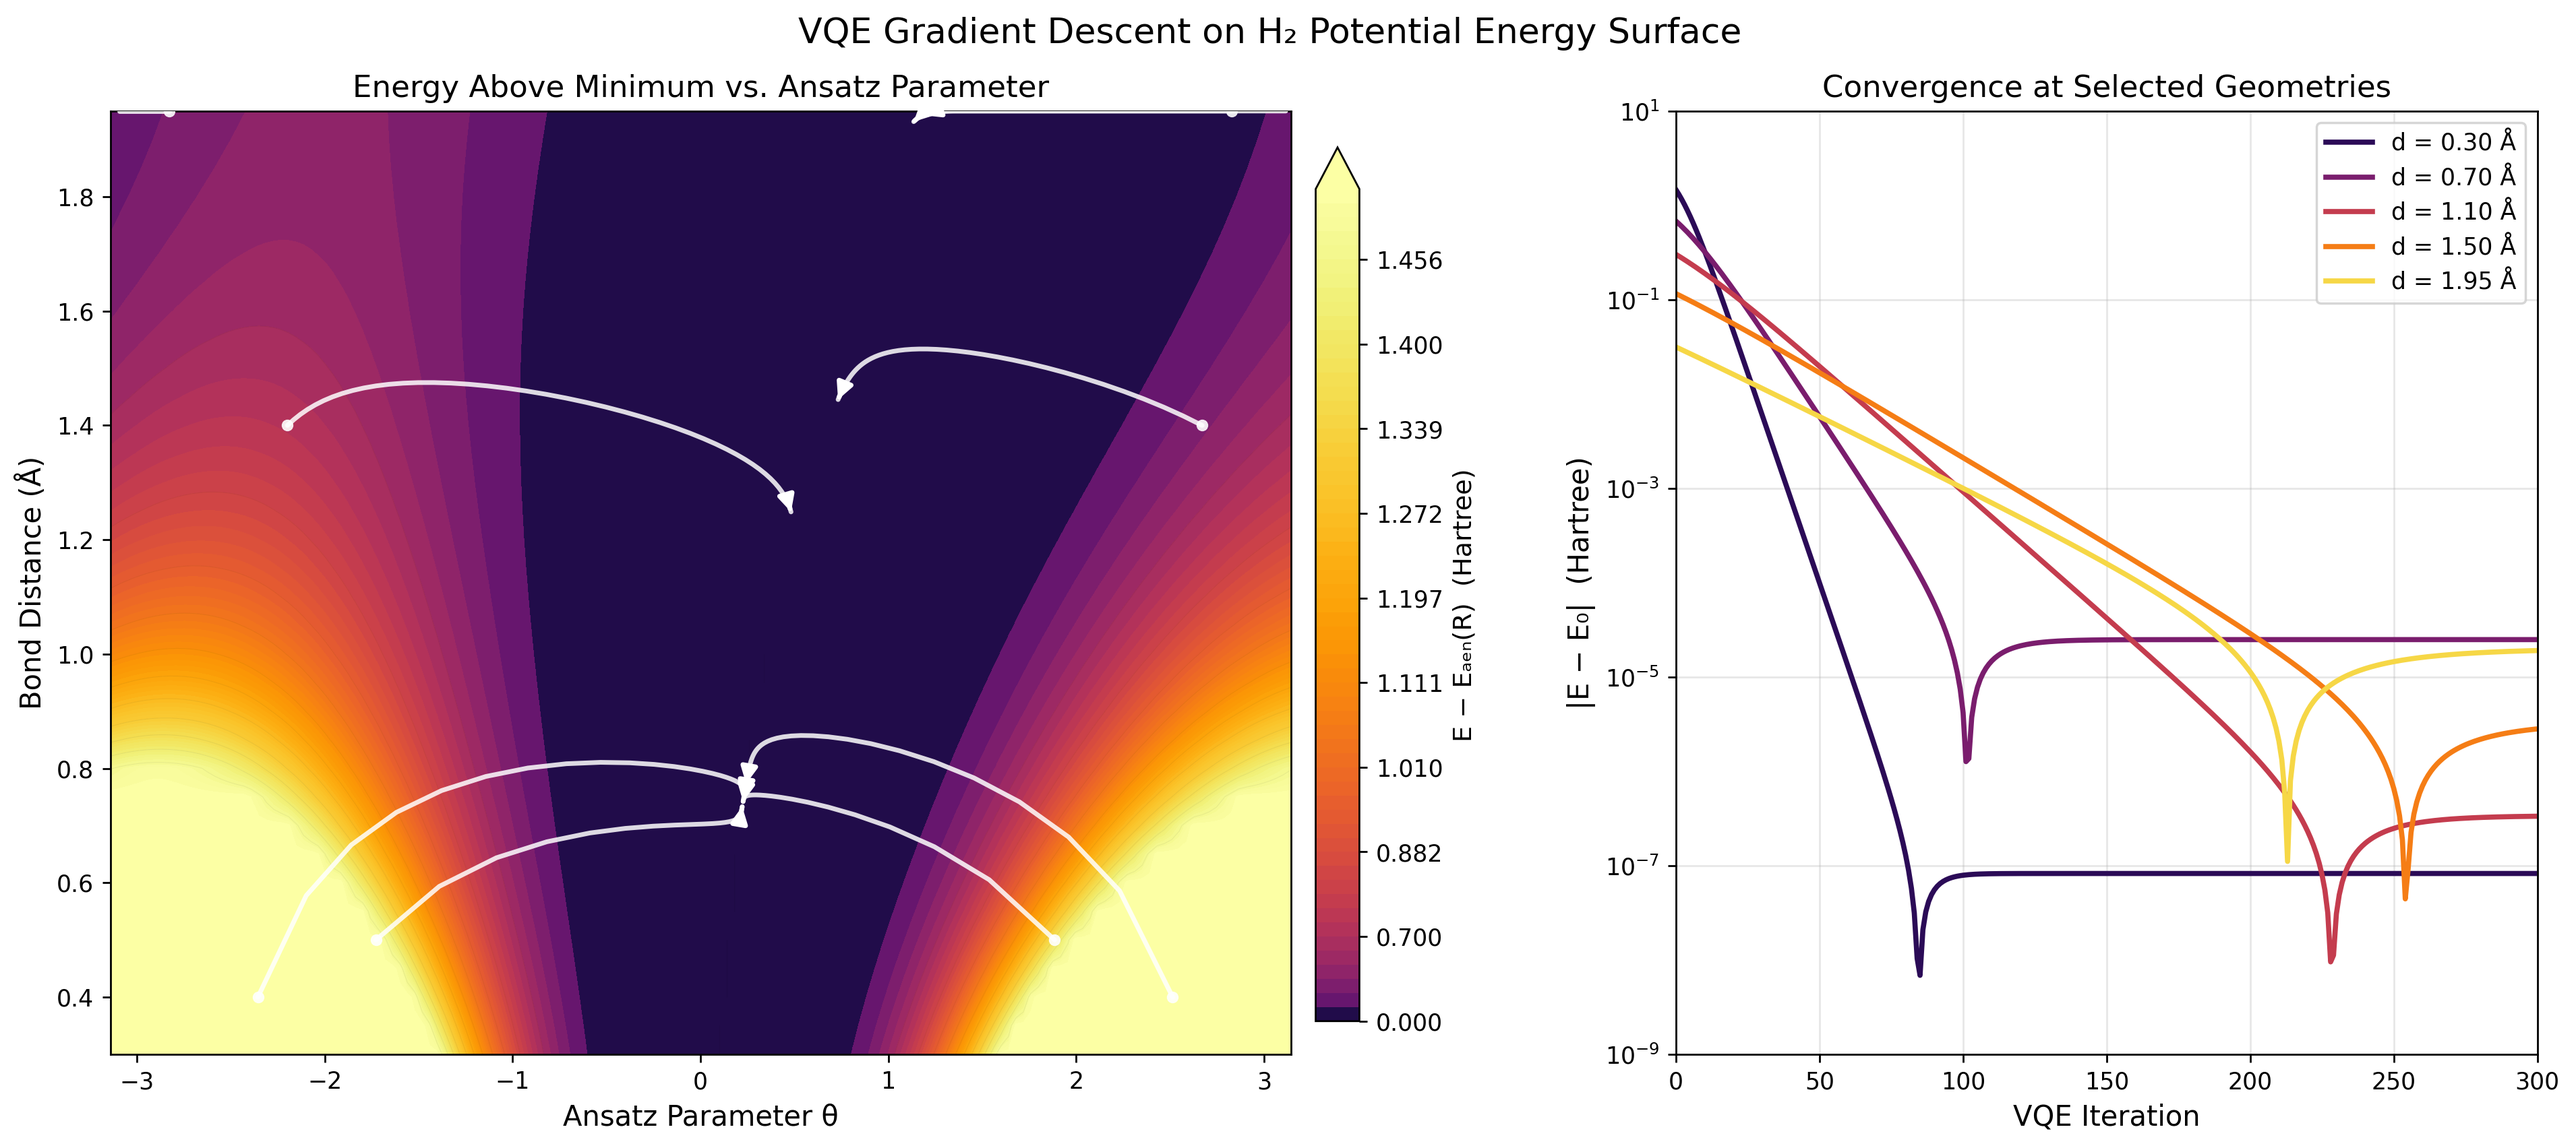
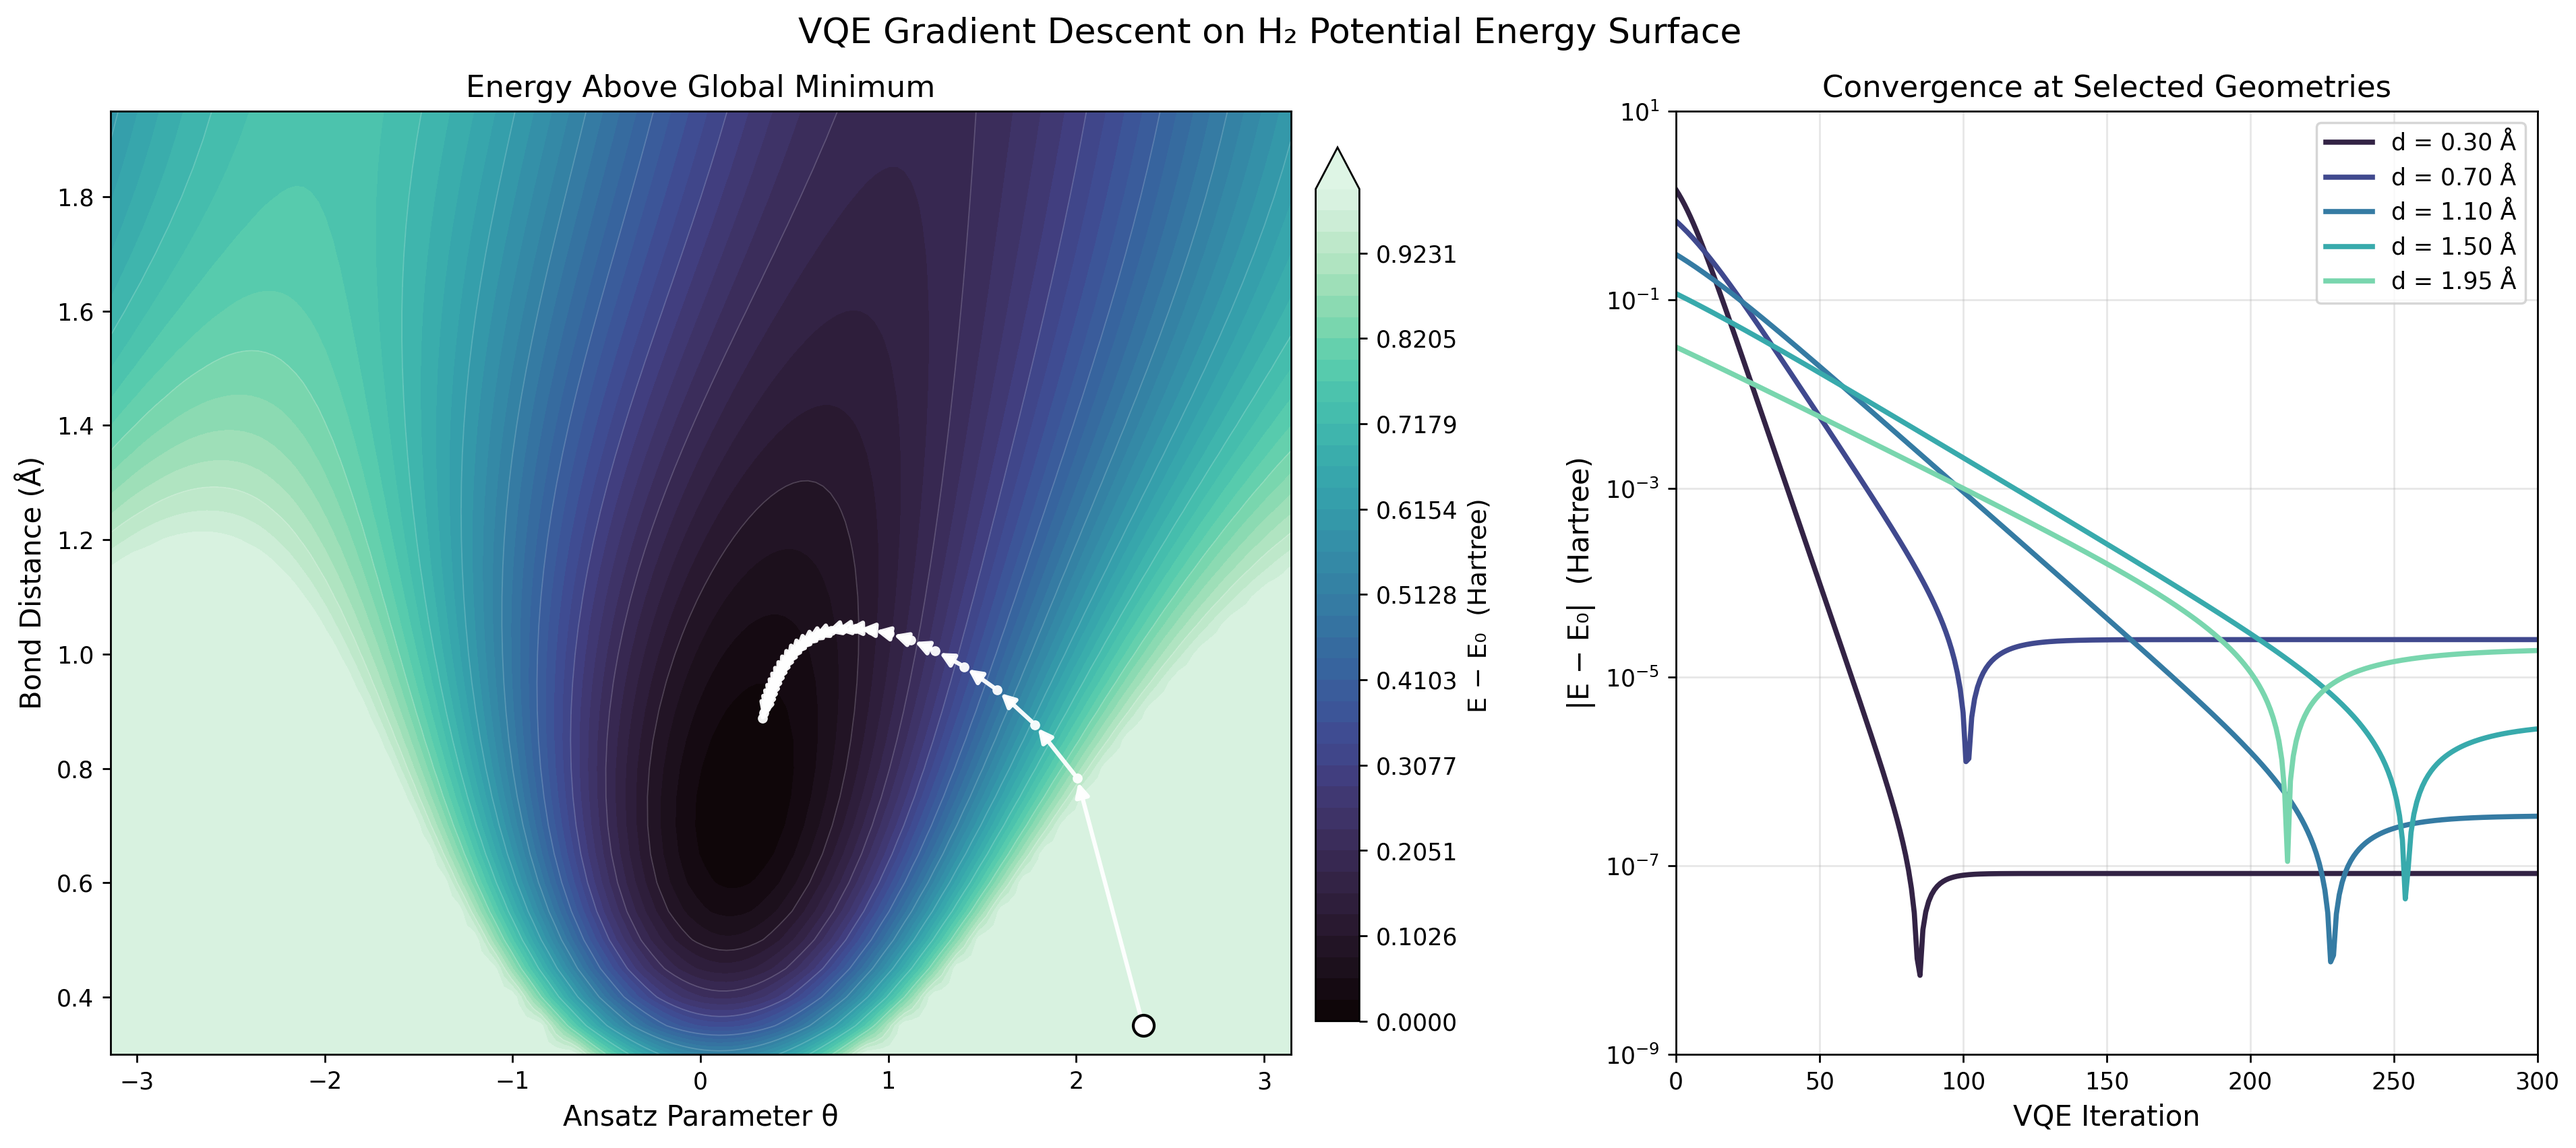
viz: hero -> mako palette, absolute PES (single 2D well), single trajectory with per-step arrows

diff --git a/visualization/heroVisualization.py b/visualization/heroVisualization.py
@@ -3,14 +3,12 @@ VQE Hero Visualization
 
 Hero plot for the Quantum Chemistry Eigensolver.
 
-Left panel: filled contour of E(theta, R) - E_min(R) across all 34 bond
-distances, revealing how the well depth and landscape shape vary with geometry.
-Gradient-descent trajectories are shown at 8 sampled bond distances, starting
-from theta=pi/2. Convergence is fastest near equilibrium (deep well, large
-gradient) and slowest at dissociation (shallow well, small coupling) -- a
-physically meaningful non-trivial pattern. Color scheme matches
-vqe_energy_curves.py: cubehelix palette for bond-distance trajectory coloring,
-mako colormap for the PES background.
+Left panel: filled contour of E(theta, R) - E_0 across all 34 bond distances
+(absolute energy shifted to the global minimum), revealing a single 2D well
+near (theta_eq, R_eq ≈ 0.74 Å). A single 2D gradient-descent trajectory is
+overlaid, with each iteration drawn as its own arrow segment so the descent
+is visually explicit. Color: mako (matches vqe_energy_curves.py and
+h2_molecular_orbitals.py).
 
 Right panel: energy error |E - E_0| (log scale) vs VQE iteration at three
 geometries (compressed, equilibrium, stretched). Uses mako palette.
@@ -23,6 +21,7 @@ from pathlib import Path
 import matplotlib.gridspec as gridspec
 import matplotlib.pyplot as plt
 import numpy as np
+import seaborn as sns
 from scipy.interpolate import RegularGridInterpolator
 
 parent_dir = Path(__file__).resolve().parent.parent
@@ -100,16 +99,19 @@ def createHeroVisualization(savePath):
     for dIdx, (h_mat, nuc) in enumerate(zip(hMats, nucs)):
         energyGrid[dIdx] = _energyRow(h_mat, nuc, ansatz, thetas)
 
-    # Relative landscape: E(theta, R) - E_min(R)  highlights how well-depth
-    # varies with bond distance (deep at equilibrium, shallow at dissociation)
-    relGrid = energyGrid - energyGrid.min(axis=1, keepdims=True)
+    # Absolute landscape: E(theta, R) shifted by the global minimum. Unlike
+    # E - E_min(R) (which produces 34 stacked horizontal wells), this gives a
+    # true 2D potential with a single global basin near (theta_eq, R_eq) and
+    # nuclear-repulsion + dissociation cliffs at the edges -- a non-trivial
+    # surface for the trajectory to navigate.
+    absMin = float(energyGrid.min())
+    pesGrid = energyGrid - absMin
 
-    # ── 2D gradient-descent trajectories ─────────────────────────────────────
-    # Numerical gradients over the absolute energy grid let each path move in
-    # BOTH theta AND R, tracing diagonal curves that converge toward the global
-    # minimum at (theta_eq, R_eq ≈ 0.74 Å). This makes the iterative steps
-    # visually connected and non-horizontal.
-    print("Computing 2D gradient-descent trajectories...")
+    # ── 2D gradient-descent trajectory (single non-trivial path) ─────────────
+    # Numerical gradients over the energy grid let the path move in BOTH theta
+    # AND R, tracing a curve from a stretched, off-equilibrium start toward
+    # the global minimum at (theta_eq, R_eq ≈ 0.74 Å).
+    print("Computing 2D gradient-descent trajectory...")
     lr = 0.06  # kept for convergence section
 
     dEdTheta2d = np.gradient(energyGrid, thetas, axis=1)
@@ -123,31 +125,22 @@ def createHeroVisualization(savePath):
         method="linear", bounds_error=False, fill_value=None,
     )
 
-    nD = len(distances)
-    startPts = [
-        ( np.pi * 0.90,  distances[-1]),
-        (-np.pi * 0.90,  distances[-1]),
-        ( np.pi * 0.85,  distances[int(nD * 0.65)]),
-        (-np.pi * 0.70,  distances[int(nD * 0.65)]),
-        ( np.pi * 0.80,  distances[2]),   # compressed: large R-gradient
-        (-np.pi * 0.75,  distances[2]),   # compressed: large R-gradient
-        ( np.pi * 0.60,  distances[4]),
-        (-np.pi * 0.55,  distances[4]),
-    ]
-    lrTheta, lrR, nSteps2d = 0.30, 0.030, 45
-    trajData = []  # list of (tPath_array, RPath_array)
-
-    for t0, R0 in startPts:
-        t, R = float(t0), float(R0)
-        tPath, RPath = [t], [R]
-        for _ in range(nSteps2d):
-            gt = float(gradThetaFn([[R, t]]).item())
-            gR = float(gradRFn([[R, t]]).item())
-            t = float(((t - lrTheta * gt + np.pi) % (2.0 * np.pi)) - np.pi)
-            R = float(np.clip(R - lrR * gR, distances[0], distances[-1]))
-            tPath.append(t)
-            RPath.append(R)
-        trajData.append((np.array(tPath), np.array(RPath)))
+    # Single trajectory: start at compressed bond + off-axis theta. Both
+    # components of the gradient are large here, so the path sweeps clearly
+    # diagonally across the well toward (theta_eq, R_eq ≈ 0.74 Å).
+    t0, R0 = np.pi * 0.75, distances[1]  # ≈ (2.36, 0.35 Å)
+    lrTheta, lrR, nSteps2d = 0.30, 0.060, 28
+    t, R = float(t0), float(R0)
+    tPath, RPath = [t], [R]
+    for _ in range(nSteps2d):
+        gt = float(gradThetaFn([[R, t]]).item())
+        gR = float(gradRFn([[R, t]]).item())
+        t = float(((t - lrTheta * gt + np.pi) % (2.0 * np.pi)) - np.pi)
+        R = float(np.clip(R - lrR * gR, distances[0], distances[-1]))
+        tPath.append(t)
+        RPath.append(R)
+    tPath = np.array(tPath)
+    RPath = np.array(RPath)
 
     # ── Convergence curves at 3 representative geometries ─────────────────────
     print("Computing convergence curves...")
@@ -169,10 +162,9 @@ def createHeroVisualization(savePath):
             steps.append(_energyAt(h_mat, nuc, ansatz, t))
         convEnergy.append(np.array(steps))
 
-    # ── Color palettes ────────────────────────────────────────────────────────
-    # inferno: black→deep-purple→red→orange→yellow. Multi-hue, non-trivial.
-    pesCmap = plt.cm.inferno
-    convPalette = [plt.cm.inferno(v) for v in np.linspace(0.15, 0.90, 5)]
+    # ── Color palettes -- match vqe_energy_curves.py / h2_molecular_orbitals.py ──
+    pesCmap = sns.color_palette("mako", as_cmap=True)
+    convPalette = sns.color_palette("mako", n_colors=5)
 
     # ── Figure ────────────────────────────────────────────────────────────────
     fig = plt.figure(figsize=(16, 7))
@@ -182,56 +174,49 @@ def createHeroVisualization(savePath):
 
     fig.suptitle("VQE Gradient Descent on H\u2082 Potential Energy Surface", fontsize=15)
 
-    # ── Left: relative PES + per-distance trajectories ────────────────────────
+    # ── Left: absolute PES + single trajectory ────────────────────────────────
     THETA, DIST = np.meshgrid(thetas, distances)
-    # LogNorm gives smooth log-spaced color transition across the full dynamic
-    # range: near-minimum (small relGrid) → dark navy; edges (large) → teal.
-    # Avoids the sharp band that PowerNorm produced in the midrange.
-    # PowerNorm(gamma=3): f(x)=x^3 -- spends ~80% of the colormap on the bottom
-    # 50% of the energy range, so the dark region dominates the plot.
-    # Clip vmax at 1.5 Hartree so extreme compressed-geometry values don't
-    # expand the scale; `extend='max'` assigns them the top (bright) color.
-    pesVmax = min(float(relGrid.max()), 1.5)
-    relGridClip = np.clip(relGrid, 0, pesVmax)
-    # Cube-root level spacing: dense levels near 0 (dark) → colour transitions
-    # span a wide area at low energy; sparse near pesVmax → brief bright region.
-    # Equivalent to PowerNorm(gamma=3) but avoids overflow in matplotlib internals.
-    levFrac = np.linspace(0, 1, 60) ** (1.0 / 3.0)
-    pesLevels = levFrac * pesVmax
-    cf = axLeft.contourf(THETA, DIST, relGridClip, levels=pesLevels, cmap=pesCmap, extend="max")
-    axLeft.contour(THETA, DIST, relGridClip, levels=pesLevels[::5], colors="k", alpha=0.06, linewidths=0.3)
+    # Linear levels on the shifted absolute energy: produces a single deep
+    # mako-navy basin near (theta_eq, R_eq) that smoothly brightens through
+    # teal to pale green at the dissociation/repulsion cliffs -- a true 2D
+    # well, not stacked horizontal bands. Clip vmax to 1.0 Hartree so the
+    # colour range is dominated by the chemically interesting region (±100 mHa
+    # around the well), not the nuclear-repulsion blow-up at small R.
+    pesVmax = min(float(pesGrid.max()), 1.0)
+    pesGridClip = np.clip(pesGrid, 0.0, pesVmax)
+    pesLevels = np.linspace(0.0, pesVmax, 40)
+    cf = axLeft.contourf(THETA, DIST, pesGridClip, levels=pesLevels, cmap=pesCmap, extend="max")
+    # Thin contour lines highlight the well structure (non-trivial pattern)
+    axLeft.contour(THETA, DIST, pesGridClip, levels=pesLevels[::4], colors="white", alpha=0.18, linewidths=0.5)
     cbar = fig.colorbar(cf, ax=axLeft, fraction=0.035, pad=0.02)
-    cbar.set_label("E \u2212 E\u2090\u2091\u2099(R)  (Hartree)", fontsize=11)
+    cbar.set_label("E \u2212 E\u2080  (Hartree)", fontsize=11)
 
-    for tPath, RPath in trajData:
-        # Split at theta wrap-around jumps (> pi) and plot each segment as a
-        # single polyline so there are no gaps between steps.
-        breaks = [i for i in range(len(tPath) - 1) if abs(tPath[i + 1] - tPath[i]) > np.pi]
-        splits = [0] + [b + 1 for b in breaks] + [len(tPath)]
-        for seg_s, seg_e in zip(splits[:-1], splits[1:]):
-            if seg_e - seg_s < 2:
-                continue
-            axLeft.plot(
-                tPath[seg_s:seg_e], RPath[seg_s:seg_e],
-                color="white", linewidth=2.0, alpha=0.85,
-                zorder=3, solid_capstyle="round", solid_joinstyle="round",
-            )
-        # Start marker
-        axLeft.scatter([tPath[0]], [RPath[0]], color="white", s=25, zorder=4, alpha=0.90, linewidths=0)
-        # Directional arrow near the end of the path
-        endIdx = len(tPath) - 2
-        if abs(tPath[endIdx + 1] - tPath[endIdx]) <= np.pi:
-            axLeft.annotate(
-                "",
-                xy=(tPath[endIdx + 1], RPath[endIdx + 1]),
-                xytext=(tPath[endIdx], RPath[endIdx]),
-                arrowprops=dict(arrowstyle="-|>", color="white", lw=2.0, mutation_scale=14),
-                zorder=5,
-            )
+    # Single trajectory: each step rendered as its own arrow segment so the
+    # iterative descent is visually explicit.
+    for i in range(len(tPath) - 1):
+        if abs(tPath[i + 1] - tPath[i]) > np.pi:  # skip wrap-around
+            continue
+        axLeft.annotate(
+            "",
+            xy=(tPath[i + 1], RPath[i + 1]),
+            xytext=(tPath[i], RPath[i]),
+            arrowprops=dict(
+                arrowstyle="-|>", color="white", lw=1.8, mutation_scale=12,
+                alpha=0.95,
+            ),
+            zorder=4,
+        )
+    # Vertex dots so segment joins read crisply
+    axLeft.scatter(tPath, RPath, color="white", s=18, zorder=5, alpha=0.95, linewidths=0)
+    # Larger start marker
+    axLeft.scatter(
+        [tPath[0]], [RPath[0]], color="white", s=80, zorder=6,
+        edgecolors="black", linewidths=1.2, marker="o",
+    )
 
     axLeft.set_xlabel("Ansatz Parameter \u03b8", fontsize=12)
     axLeft.set_ylabel("Bond Distance (\u00c5)", fontsize=12)
-    axLeft.set_title("Energy Above Minimum vs. Ansatz Parameter", fontsize=13)
+    axLeft.set_title("Energy Above Global Minimum", fontsize=13)
 
     # ── Right: convergence curves (log scale) ─────────────────────────────────
     distLabels = [f"d = {distances[i]:.2f} \u00c5" for i in convIndices]
